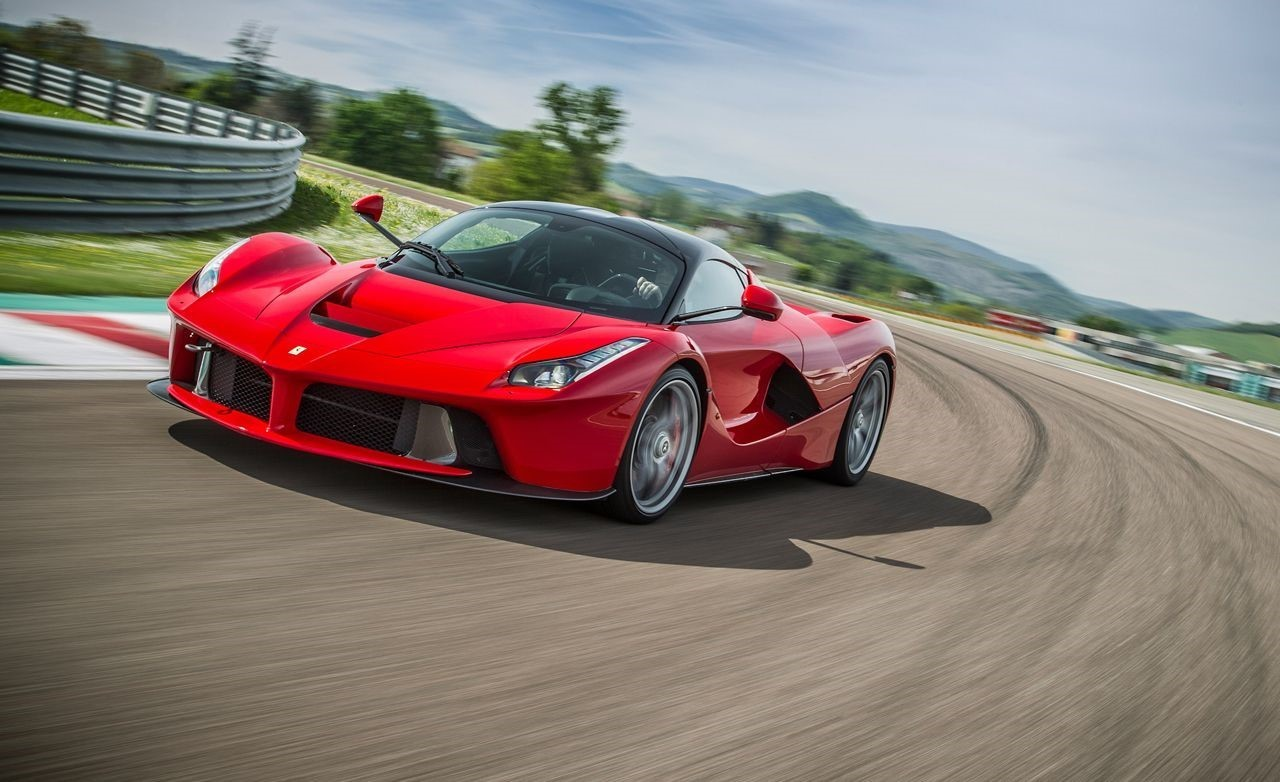
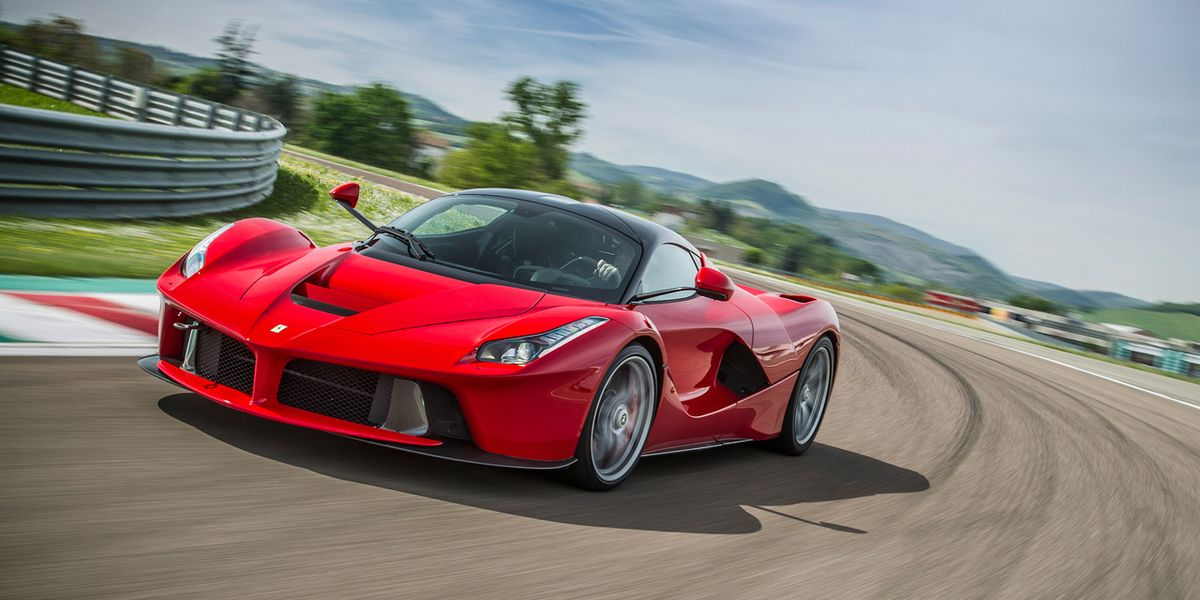
commit

diff --git a/index.html b/index.html
@@ -67,7 +67,7 @@
           powerful incarnation yet of Ferrari’s classic V12, with 800 CV at 9000
           rpm.
         </p>
-        <img class="card-img" src="Laferrari.jpg" alt="Ferrari LaFerrari" />
+        <img class="card-img" src="LaFerrari.jpg" alt="Ferrari LaFerrari" />
       </div>
       <div class="box1 card">
         <h2 class="card-header">Lamborghini Aventador SVJ</h2>

diff --git a/style.css b/style.css
@@ -37,7 +37,7 @@ body,
 .card-img {
   width: 90%;
   height: 60%;
-  object-fit: contain;
+  object-fit: cover;
 }
 .card-description {
   padding: 0.5rem;
